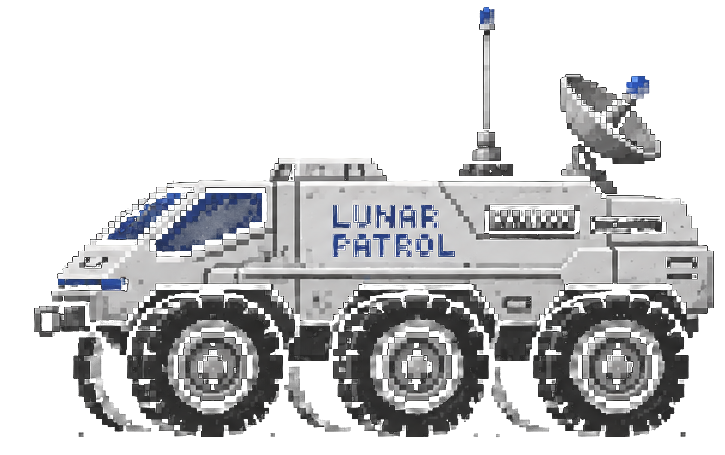
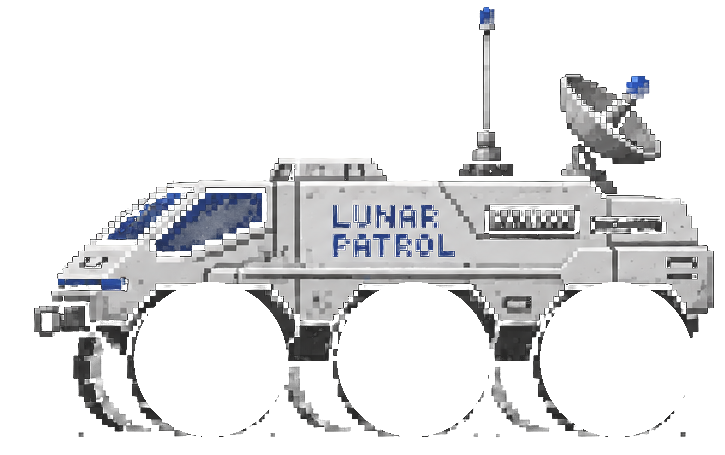
Animate patrol wheels over lunar terrain

Changed region(s): [[0.7283, 0.6154, 0.971, 0.9846], [0.4552, 0.6154, 0.6979, 0.9846], [0.1821, 0.6154, 0.3945, 0.9846]]

diff --git a/index.html b/index.html
@@ -227,6 +227,11 @@ var installButton = document.getElementById('install-app');
 var splashVisible = true;
 var installPromptEvent = null;
 var patrolStyle=0;
+var patrolWheelLayout=[
+  [{x:.29,y:.79,r:.105},{x:.57,y:.79,r:.105},{x:.85,y:.79,r:.105}],
+  [{x:.06,y:.76,r:.105},{x:.55,y:.76,r:.105},{x:.72,y:.76,r:.105},{x:.94,y:.76,r:.09}],
+  [{x:.07,y:.76,r:.095},{x:.27,y:.76,r:.10},{x:.47,y:.76,r:.10},{x:.94,y:.76,r:.085}]
+];
 var bgImage=new Image(); bgImage.src='images/fundo do jogo.png';
 var patrolImages=[0,1,2].map(function(i){var im=new Image();im.src='images/patrol-'+i+'.png';return im;});
 document.querySelectorAll('.patrol-choice').forEach(function(button){
@@ -1094,6 +1099,24 @@ function drawPlayer(){
     /* Os sprites de referência apontam para a esquerda; espelhar para a patrulha avançar. */
     ctx.scale(-1,1);
     ctx.drawImage(patrolImage,-38,-27,76,54);
+    var wheels=patrolWheelLayout[patrolStyle]||patrolWheelLayout[0];
+    var rotation=distance/7.5;
+    wheels.forEach(function(wheel){
+      var cx=-38+wheel.x*76,cy=-27+wheel.y*54,r=wheel.r*76;
+      ctx.fillStyle='#111016';ctx.beginPath();ctx.arc(cx,cy,r,0,Math.PI*2);ctx.fill();
+      ctx.strokeStyle='#62616a';ctx.lineWidth=1.5;ctx.stroke();
+      ctx.save();ctx.translate(cx,cy);ctx.rotate(rotation);
+      ctx.strokeStyle='#92919a';ctx.lineWidth=1.35;
+      for(var tread=0;tread<8;tread++){
+        var a=tread*Math.PI/4;
+        ctx.beginPath();ctx.moveTo(Math.cos(a)*(r*.68),Math.sin(a)*(r*.68));
+        ctx.lineTo(Math.cos(a)*r,Math.sin(a)*r);ctx.stroke();
+      }
+      ctx.fillStyle='#35343d';ctx.beginPath();ctx.arc(0,0,r*.48,0,Math.PI*2);ctx.fill();
+      ctx.strokeStyle='#aaa8b0';ctx.lineWidth=1;ctx.beginPath();ctx.arc(0,0,r*.34,0,Math.PI*2);ctx.stroke();
+      ctx.rotate(-rotation*1.8);ctx.fillStyle='#d0cdd4';ctx.beginPath();ctx.arc(0,0,r*.17,0,Math.PI*2);ctx.fill();
+      ctx.restore();
+    });
     ctx.restore();return;
   }
   if(keys['ArrowRight']){

diff --git a/sw.js b/sw.js
@@ -1,6 +1,6 @@
 "use strict";
 
-const CACHE_NAME = "moon-patrol-pwa-v6";
+const CACHE_NAME = "moon-patrol-pwa-v7";
 const INDEX_URL = new URL("./index.html", self.location).href;
 const APP_SHELL = [
   "./index.html",
